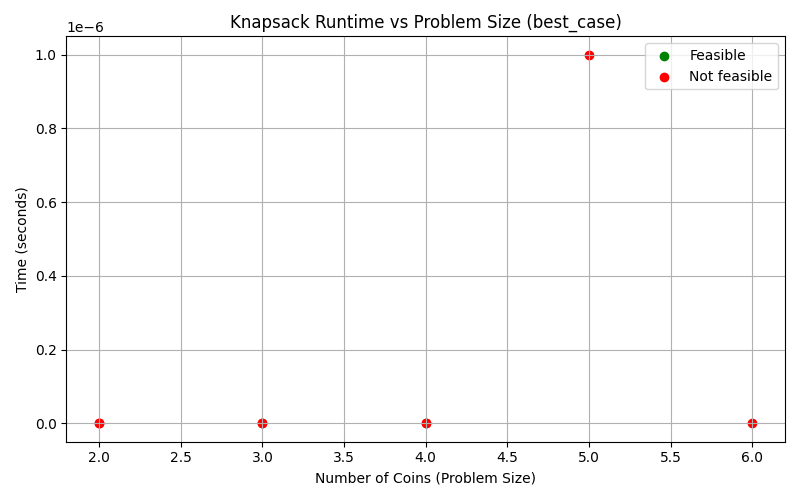
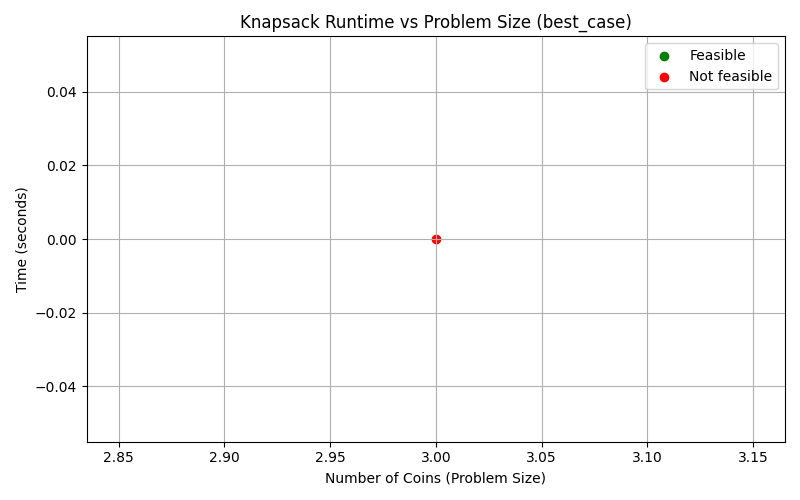
Modified code, still need an input file

diff --git a/src/helpers/knapsack_helper.py b/src/helpers/knapsack_helper.py
@@ -123,7 +123,7 @@ class KnapsackAbstractClass(ABC):
                 t0 = time.perf_counter()
                 bt_ok, bt_assign = self.knapsack_bruteforce(target, coins)
                 bt_time = time.perf_counter() - t0
-                results.append([instance_id, target, len(coins),
+                results.append([instance_id, target, sum(coins.values()),
                         "BruteForce", "YES" if bt_ok else "NO",
                         f"{bt_time:.6f}", str(bt_assign)])
 
@@ -137,7 +137,7 @@ class KnapsackAbstractClass(ABC):
                 t0 = time.perf_counter()
                 bt_ok, bt_assign = self.knapsack_backtracking(target, coins)
                 bt_time = time.perf_counter() - t0
-                results.append([instance_id, target, len(coins),
+                results.append([instance_id, target, sum(coins.values()),
                         "BackTracking", "YES" if bt_ok else "NO",
                         f"{bt_time:.6f}", str(bt_assign)])
         
@@ -151,7 +151,7 @@ class KnapsackAbstractClass(ABC):
                 t0 = time.perf_counter()
                 bt_ok, bt_assign = self.knapsack_simple(target, coins)
                 bt_time = time.perf_counter() - t0
-                results.append([instance_id, target, len(coins),
+                results.append([instance_id, target, sum(coins.values()),
                         "Simple", "YES" if bt_ok else "NO",
                         f"{bt_time:.6f}", str(bt_assign)])
         
@@ -166,7 +166,7 @@ class KnapsackAbstractClass(ABC):
                 t0 = time.perf_counter()
                 bt_ok, bt_assign = self.knapsack_bestcase(target, coins)
                 bt_time = time.perf_counter() - t0
-                results.append([instance_id, target, len(coins),
+                results.append([instance_id, target, sum(coins.values()),
                         "BestCase", "YES" if bt_ok else "NO",
                         f"{bt_time:.6f}", str(bt_assign)])
         

diff --git a/src/helpers/dmaics_parser.py b/src/helpers/dmaics_parser.py
@@ -105,18 +105,18 @@ def parse_multi_instance_knapsack(path: str):
             i += 1
             if i >= len(lines) or not lines[i].startswith("p knap"):
                 raise ValueError(f"Expected 'p knap' after line: {line}")
-            _, _, n_coins_str= lines[i].split()
-            n_coins = int(n_coins_str)
+            _, _, unique_coins_str= lines[i].split()
+            unique_coins = int(unique_coins_str)
             i += 1
             coins = defaultdict(int)
             # Read next n_coins lines
-            for _ in range(n_coins):
+            for _ in range(unique_coins):
                 if i >= len(lines) or lines[i].startswith("c "):
                     break
                 parts = lines[i].replace(",", " ").split()
-                if len(parts) >= 1:
+                if len(parts) >= 2:
                     coin = int(parts[0])
-                    coins[coin] += 1
+                    coins[coin] = int(parts[1])
                 i += 1
             instances.append((instance_id, target, coins))
         else:

diff --git a/src/knapsack.py b/src/knapsack.py
@@ -8,28 +8,31 @@ INPUT FORMAT (multi-instance file):
 Each instance starts with a comment and a problem definition:
 
 c <instance_id> <target_value> <status?>
-p knap <n_coins>
-d
-d
-d
+p knap <unique_coins>
+u v
+u v
+u v
 ...
+
+u is the value of the coin
+v is the amount of that coin available
 
 Example:
 c 1 17 ?
 p knap 5
-3
-5
-11
-7
-2
+3 3
+5 2
+11 1
+7 9
+2 3
 c 2 30 ?
 p knap 6
-4
-6
-10
-11
-13
-14
+7 1
+20 1
+17 4
+15 2
+19 5
+14 12
 
 OUTPUT:
 -------
